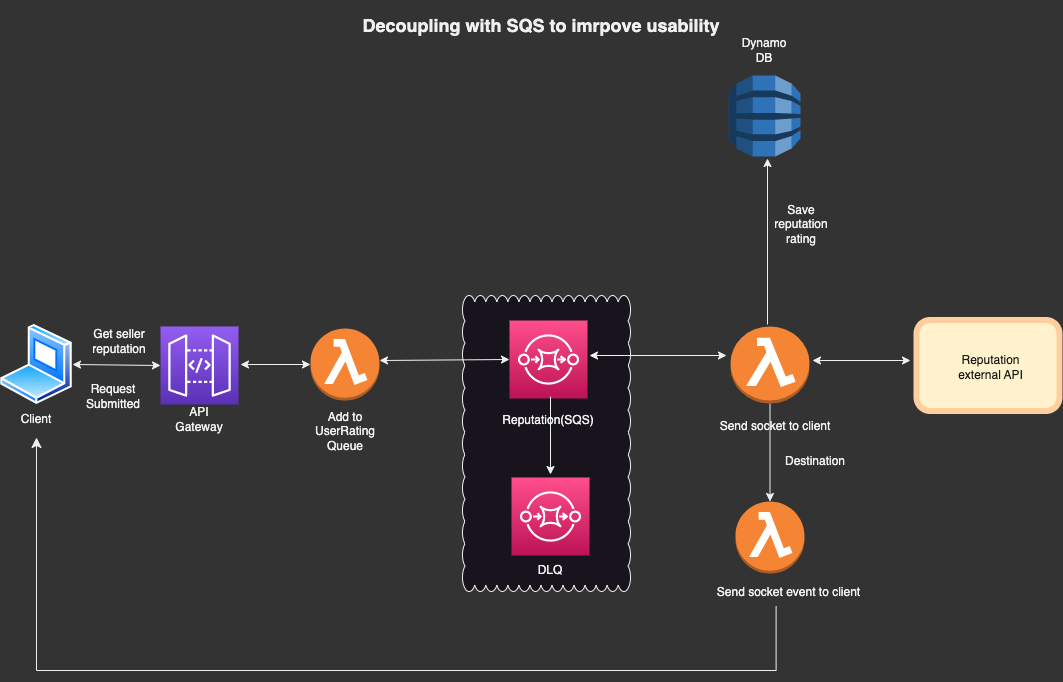
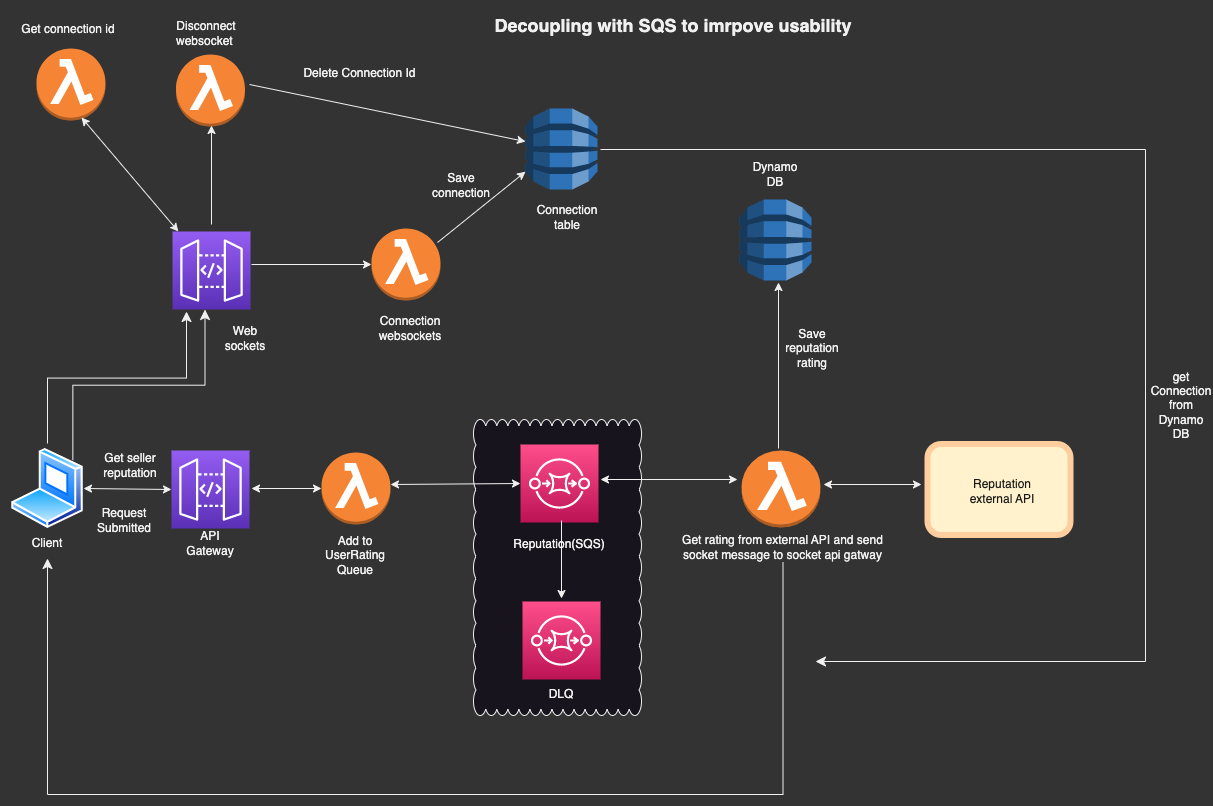
Decoupling Architecture fix

diff --git a/authentication-service/src/handlers/listenToQueue.ts b/authentication-service/src/handlers/listenToQueue.ts
@@ -1,21 +1,27 @@
 import { SQSEvent } from "aws-lambda";
 import { DynamoDBClient } from "@aws-sdk/client-dynamodb";
 import { DynamoDBDocumentClient, UpdateCommand } from "@aws-sdk/lib-dynamodb";
-
+import {
+  ApiGatewayManagementApiClient,
+  PostToConnectionCommand,
+} from "@aws-sdk/client-apigatewaymanagementapi";
 import createError from "http-errors";
 
 const client = new DynamoDBClient({
   region: process.env.AWS_REGION,
   apiVersion: "2012-08-10",
 });
+const apigateWayClient = new ApiGatewayManagementApiClient({
+  // region: process.env.AWS_REGION,
+  endpoint: process.env.APIG_ENDPOINT,
+});
+
 const ddbDocClient = DynamoDBDocumentClient.from(client);
 
 const listenToQueue = async (event: SQSEvent) => {
   const data = JSON.parse(event.Records[0].body);
 
-  console.log({ data, tableName: process.env.AUTHENTICATION_TABLE_NAME });
   // call external api get rating
-
   const RATING = 5;
 
   const params = {
@@ -34,22 +40,33 @@ const listenToQueue = async (event: SQSEvent) => {
     ReturnValues: "ALL_NEW",
   };
   let response;
+  let responseFromApiGateway;
   try {
     // save in dynamo db
     const command = new UpdateCommand(params);
     response = await ddbDocClient.send(command);
+
+    const input = {
+      Data: JSON.stringify(data), // required
+      ConnectionId: data.ConnectionId, // required
+    };
+
+    // post message from server to client using connectionId
+    // @ts-ignore
+    const apiGatewayCommand = new PostToConnectionCommand(input);
+    responseFromApiGateway = await apigateWayClient.send(apiGatewayCommand);
   } catch (err) {
     console.log(err);
+
     // as soon as error is sent it will be sent back to sqs queue
     throw new createError.InternalServerError("Internal server error");
   }
-  console.log("SEND RESPONSE", data.ConnectionId);
+
   return {
     statusCode: 200,
     body: JSON.stringify({
-      rating: RATING,
       ConnectionId: data.ConnectionId,
-      response,
+      responseFromApiGateway,
     }),
   };
 };

diff --git a/authentication-service/src/handlers/connectSocket.ts b/authentication-service/src/handlers/connectSocket.ts
@@ -10,6 +10,9 @@ const client = new DynamoDBClient({
 const ddbDocClient = DynamoDBDocumentClient.from(client);
 
 const connectSocket = async (event: APIGatewayProxyWebsocketEventV2) => {
+  // https://www.serverless.com/framework/docs/providers/aws/events/websocket/#send-a-message-to-a-ws-client
+  // https://docs.aws.amazon.com/apigateway/latest/developerguide/apigateway-websocket-api-mapping-template-reference.html
+  const domain = event.requestContext.domainName;
   console.log({
     event: event.requestContext.connectionId,
     tableName: process.env.CONNECTIONS_WEBSOCKET_TABLE,
@@ -42,10 +45,6 @@ const connectSocket = async (event: APIGatewayProxyWebsocketEventV2) => {
   }
   return {
     statusCode: 200,
-    body: JSON.stringify({
-      ConnectionId: event.requestContext.connectionId,
-      response,
-    }),
   };
 };
 

diff --git a/authentication-service/src/handlers/onMessage.ts b/authentication-service/src/handlers/onMessage.ts
@@ -1,0 +1,15 @@
+import { APIGatewayProxyWebsocketEventV2 } from "aws-lambda";
+
+const sendSocketToClient = async (event: APIGatewayProxyWebsocketEventV2) => {
+  return {
+    statusCode: 200,
+    body: JSON.stringify(event.requestContext.connectionId),
+  };
+};
+
+export const handler = sendSocketToClient;
+
+/**
+ * serverless logs -f sendSocketToClient
+ * serverless deploy function --function sendSocketToClient
+ */

diff --git a/README.md b/README.md
@@ -56,3 +56,9 @@ Note-taking system for sellers in the admin panel using Cognito authentication, 
 
 Tight coupling between our resources and dependency on external API can cause bottleneck. To avoid delays I have introduced decoupling with queue and later send socket event to client. Edge cases messages that cannot be processed will be send to DLQ.
 <img src="readmeimages/decoupling.png" height=400 width=1000>
+<img src="readmeimages/websockets.png" height=200 width=300>
+
+## 👉Architecture of Serverless Log Archive
+
+Through cloudwatch we can retain log data indefinitely but with a cost. So we will expire data in cloudwatch and stream
+that logs into s3 bucket. So in s3 bucket we have lifecycle policy to move data to low cost destination like Glacier. Other services can catalog the data and query it from s3.
